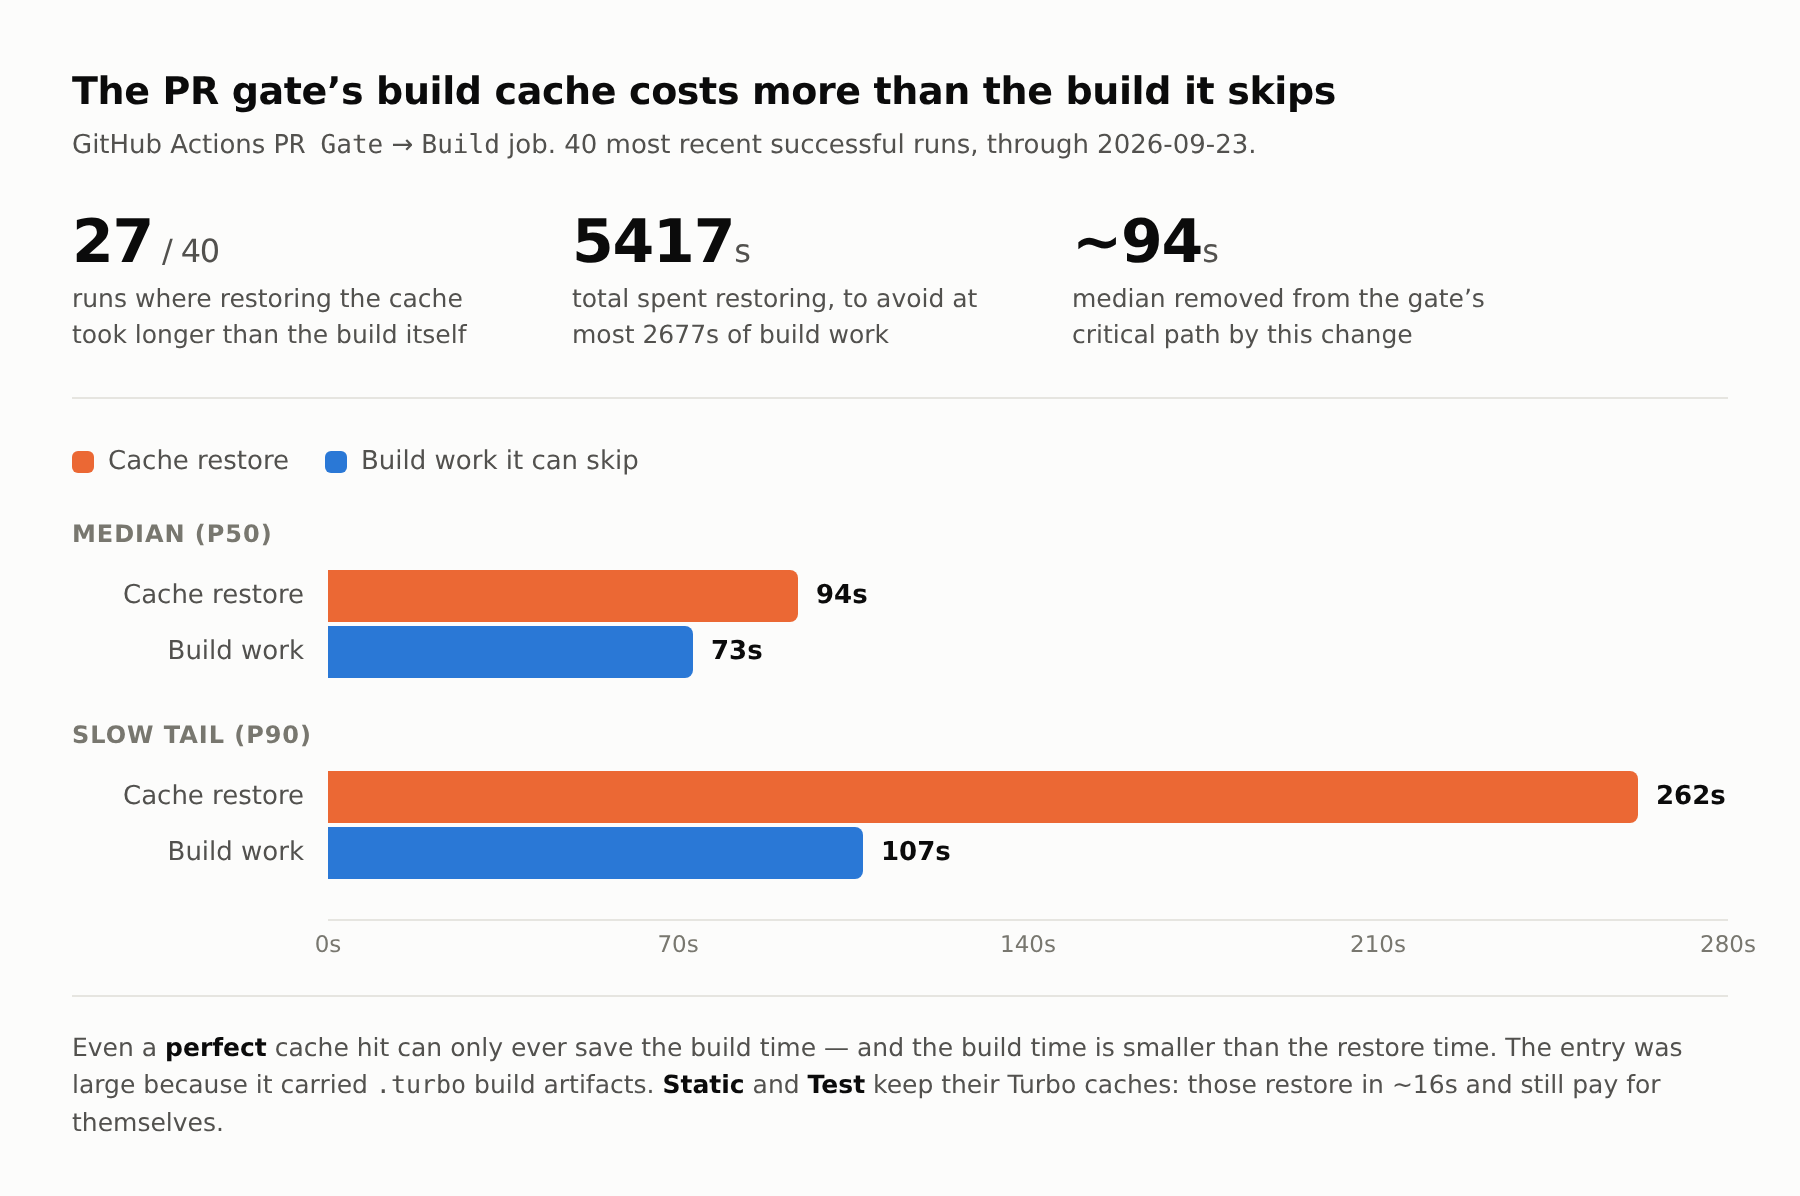
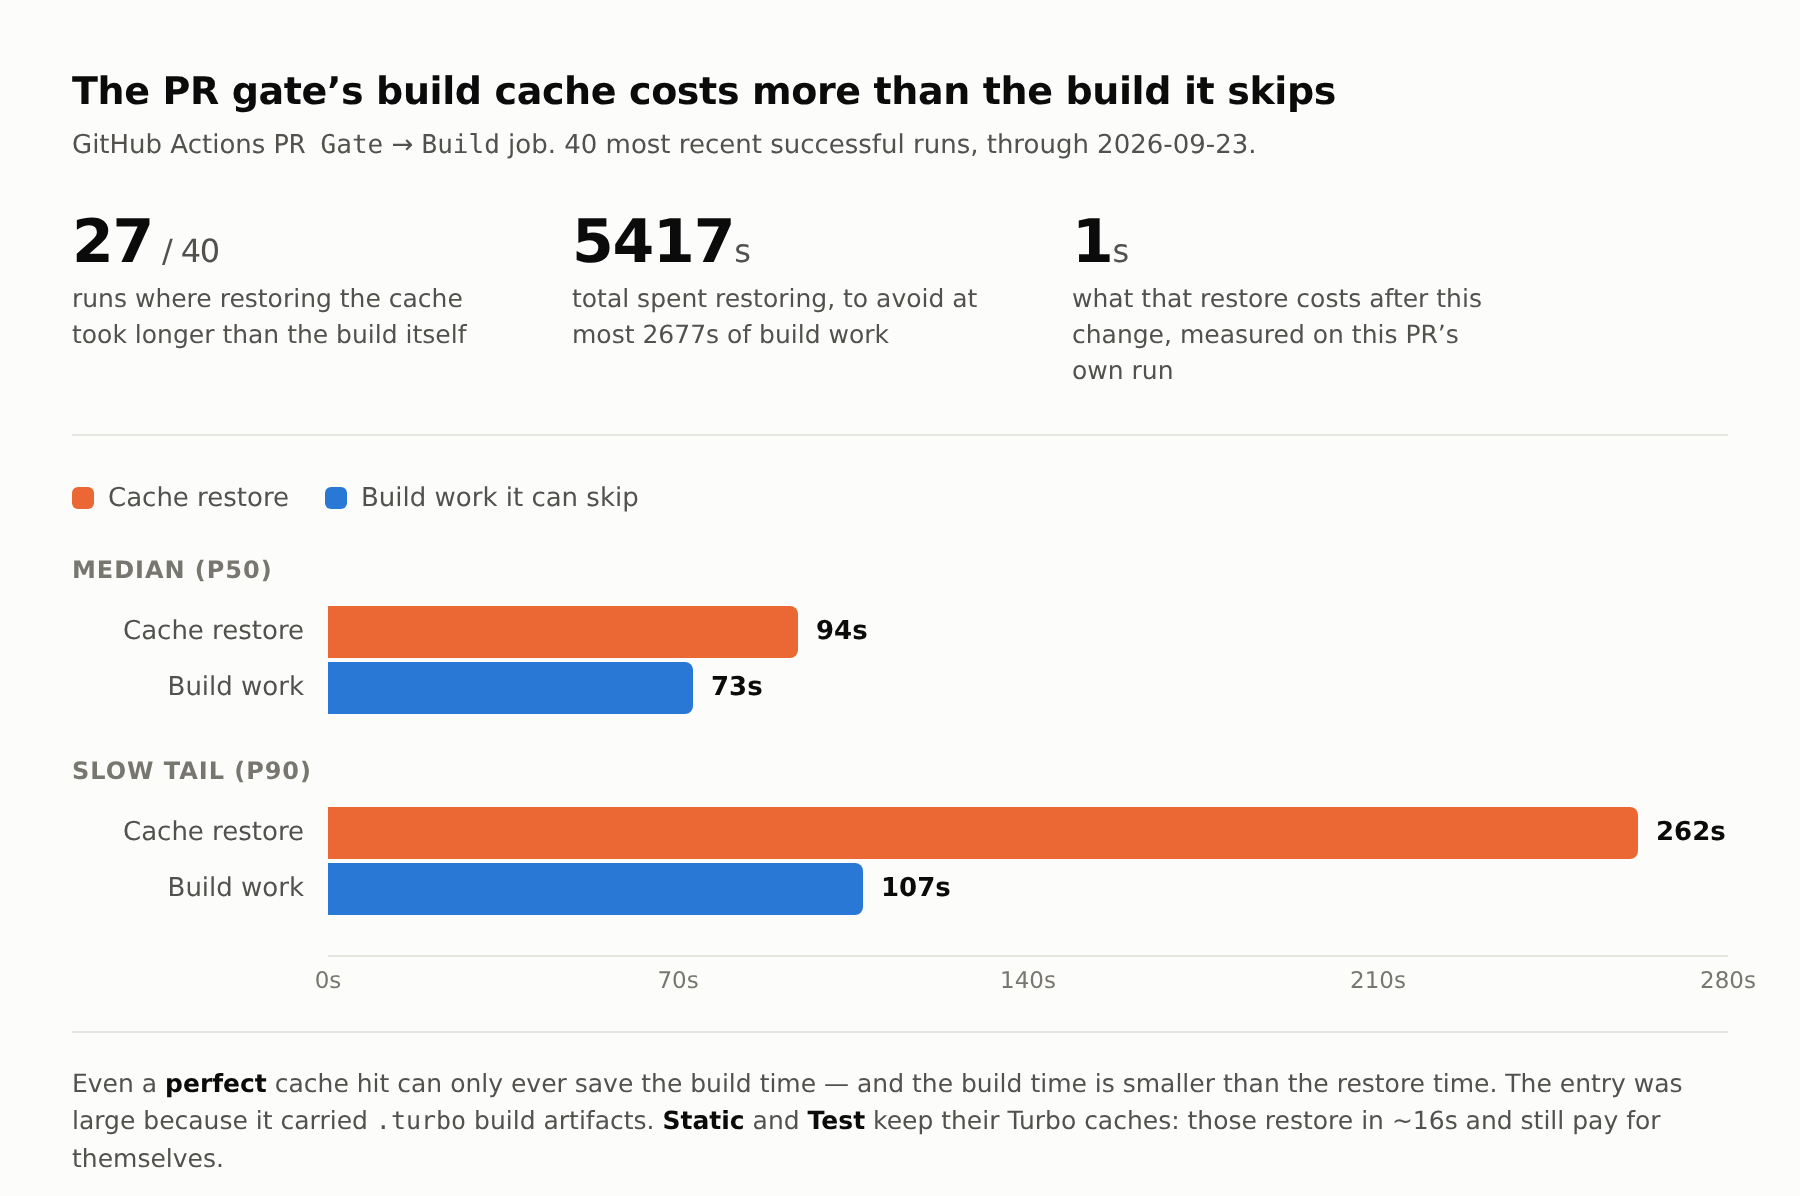
docs(ci): record the measured outcome in ADR 0017
The gate run on this branch is the conservative data point: full scope, no Turbo
cache, no dependency cache, 156s against a 175s p50 baseline. Replaces the
earlier framing, which implied the whole 93s of removed restore time was a net
saving -- it is not, because the build now always runs cold.

diff --git a/docs/adr/0017-github-actions-runner-provider.md b/docs/adr/0017-github-actions-runner-provider.md
@@ -74,11 +74,18 @@ time could only ever save the build time, and the build time is less than the re
 entry is large because it carries `.turbo` build artifacts — Next.js output among them — and a
 big tarball is slow to fetch no matter whose cache it lives in.
 
-So the `Build` job now restores only `~/.bun/install/cache`, which keeps `bun install` at the 1–3s
-it already costs, and rebuilds its artifacts instead of fetching them. `Static` and `Test` keep
-their Turbo caches: those artifacts are small and restore in about 16s, so they still pay for
-themselves. `scripts/lib/workflow-security.test.mjs` pins the new shape so the artifact cache
-cannot quietly return.
+So the `Build` job now restores only `~/.bun/install/cache` and rebuilds its artifacts instead of
+fetching them. `Static` and `Test` keep their Turbo caches: those artifacts are small and restore
+in about 16s, so they still pay for themselves.
+`scripts/lib/workflow-security.test.mjs` pins the new shape so the artifact cache cannot quietly
+return.
+
+The restore step dropped from a 94s median to 1s. The net job saving is smaller than that,
+because the build now always runs cold — 9 of the 40 sampled runs had been getting a near-total
+Turbo hit. The change's own gate run is the conservative data point: a full-scope build with no
+Turbo cache and no dependency cache finished the job in 156s, against a baseline of 175s at p50
+and 364s at p90. The steady-state median for `affected`-scoped runs will settle somewhere below
+the baseline but above that restore saving alone; a few post-merge runs will show where.
 
 This is a vendor-independent fix. It would have been worth making on Depot too, and it is worth
 more than the migration would have been.
